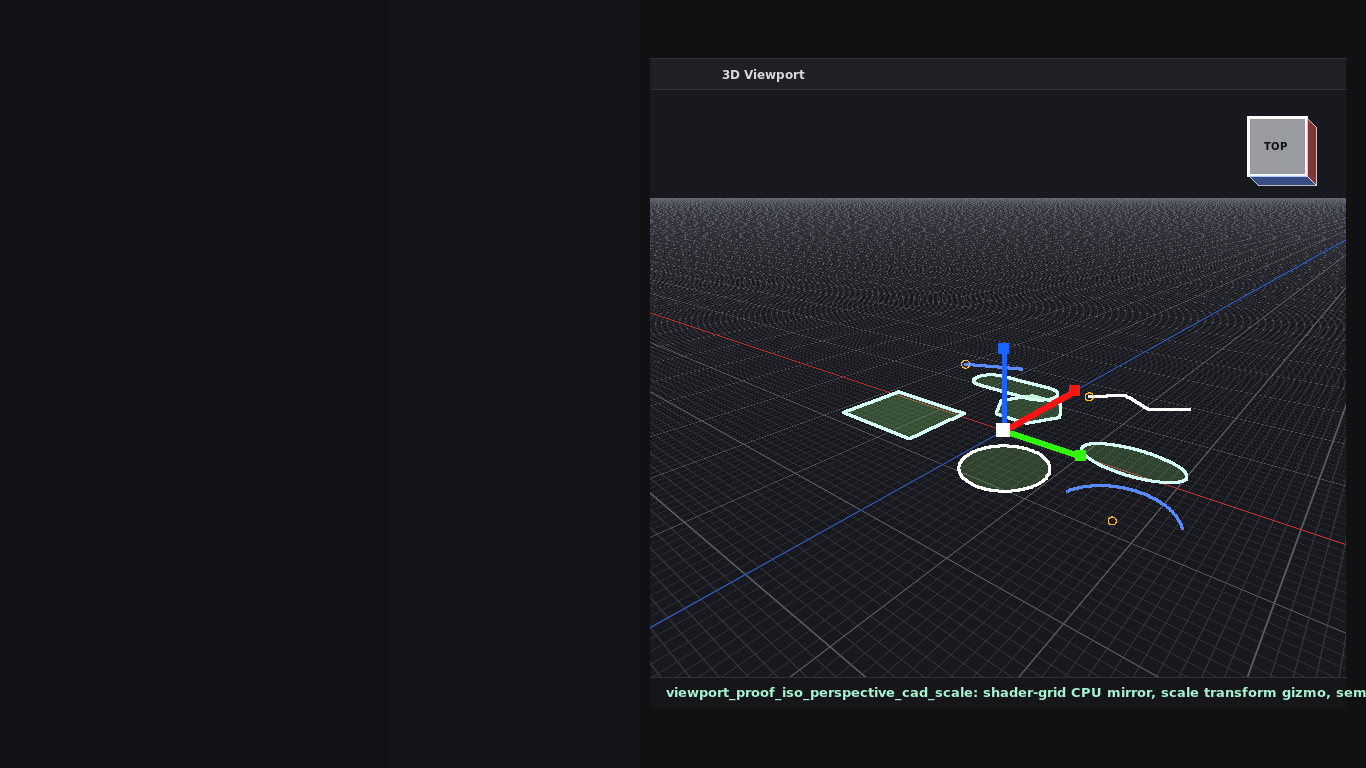
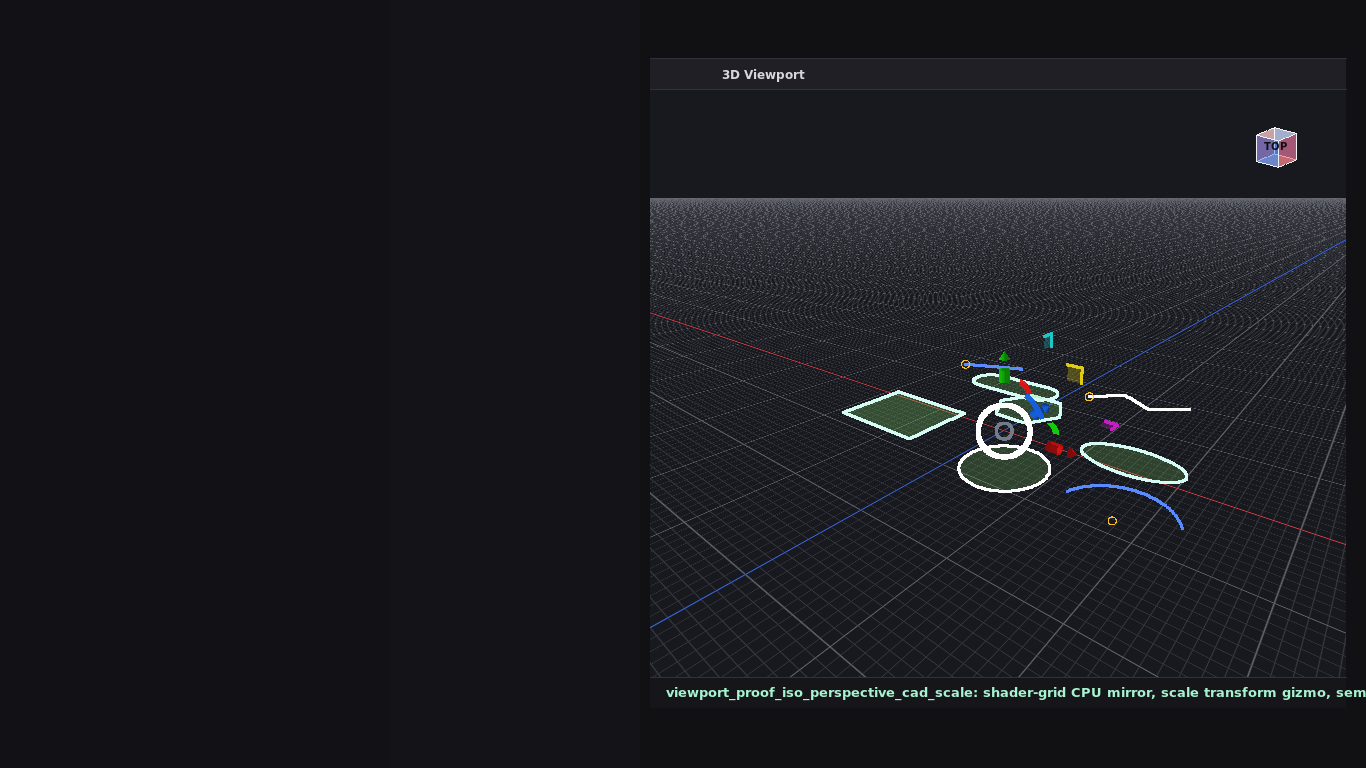
Sync viewport gizmo depth and HTML proof

Changed region(s): [[0.7072, 0.4375, 0.7994, 0.5938], [0.8917, 0.125, 0.9839, 0.25], [0.7994, 0.5312, 0.8302, 0.5625]]

diff --git a/Tools/RenderViewportPanelProof.py b/Tools/RenderViewportPanelProof.py
@@ -50,6 +50,11 @@ def mul(a: Vec3, s: float) -> Vec3:
 def dot(a: Vec3, b: Vec3) -> float:
     return a[0] * b[0] + a[1] * b[1] + a[2] * b[2]
 
+def cross(a: Vec3, b: Vec3) -> Vec3:
+    return (a[1] * b[2] - a[2] * b[1],
+            a[2] * b[0] - a[0] * b[2],
+            a[0] * b[1] - a[1] * b[0])
+
 
 def length(a: Vec3) -> float:
     return math.sqrt(dot(a, a))
@@ -286,119 +291,150 @@ def draw_cad_tools(img: Image, cam: Camera) -> None:
 
 
 
-def axis_screen_layout(cam: Camera, origin: Vec3 = (0.0, 0.0, 0.0)) -> Tuple[Point, dict[str, Point], dict[str, Point]] | None:
-    o = project(cam, origin)
-    if not o:
-        return None
-    dirs: dict[str, Point] = {}
-    tips: dict[str, Point] = {}
-    axes = {"x": (1.0, 0.0, 0.0), "y": (0.0, 1.0, 0.0), "z": (0.0, 0.0, 1.0)}
-    for k, a in axes.items():
-        sp = project(cam, add(origin, mul(a, 0.5)))
-        if not sp:
-            dirs[k] = (0.0, 0.0)
-            tips[k] = o
-            continue
-        dx, dy = sp[0] - o[0], sp[1] - o[1]
-        ln = math.hypot(dx, dy)
-        if ln < 1e-4:
-            dirs[k] = (0.0, 0.0)
-            tips[k] = o
-        else:
-            dirs[k] = (dx / ln, dy / ln)
-            tips[k] = (o[0] + dirs[k][0] * 82.0, o[1] + dirs[k][1] * 82.0)
-    return o, dirs, tips
+
+def _shade(col: Color, f: float) -> Color:
+    return (int(clamp(col[0] * f, 0, 255)), int(clamp(col[1] * f, 0, 255)), int(clamp(col[2] * f, 0, 255)))
 
 
-def draw_arrow(img: Image, o: Point, tip: Point, d: Point, col: Color) -> None:
-    img.line(o, tip, col, 1.0, 4)
-    if abs(d[0]) + abs(d[1]) < 1e-6:
-        return
-    back = (tip[0] - d[0] * 18.0, tip[1] - d[1] * 18.0)
-    perp = (-d[1], d[0])
-    tri = [tip, (back[0] + perp[0] * 6.0, back[1] + perp[1] * 6.0), (back[0] - perp[0] * 6.0, back[1] - perp[1] * 6.0)]
-    img.polygon(tri, col, 1.0)
+def _project_poly(img: Image, cam: Camera, pts: list[Vec3], col: Color, alpha: float = 1.0) -> None:
+    pp = [project(cam, p) for p in pts]
+    if all(pp):
+        img.polygon([q for q in pp if q], col, alpha)
 
 
-def draw_plane_handle(img: Image, o: Point, dirs: dict[str, Point], a: str, b: str, col: Color) -> None:
-    off, sz = 28.0, 22.0
-    da, db = dirs[a], dirs[b]
-    if math.hypot(*da) < 1e-4 or math.hypot(*db) < 1e-4:
-        return
-    def corner(ka: float, kb: float) -> Point:
-        return (o[0] + da[0] * ka + db[0] * kb, o[1] + da[1] * ka + db[1] * kb)
-    pts = [corner(off, off), corner(off + sz, off), corner(off + sz, off + sz), corner(off, off + sz)]
-    img.polygon(pts, col, 0.45)
-    img.polyline(pts, col, 0.95, 1, True)
+def _project_line(img: Image, cam: Camera, pts: list[Vec3], col: Color, alpha: float = 1.0, width: int = 2) -> None:
+    pp = [project(cam, p) for p in pts]
+    if all(pp):
+        img.polyline([q for q in pp if q], col, alpha, width)
 
 
-def draw_ring(img: Image, o: Point, dirs: dict[str, Point], axis: str, col: Color) -> None:
-    others = [k for k in ("x", "y", "z") if k != axis]
-    da, db = dirs[others[0]], dirs[others[1]]
-    if math.hypot(*da) < 1e-4 or math.hypot(*db) < 1e-4:
-        img.circle(o[0], o[1], 96.0, col, 0.85, False, 3)
-        return
-    pts = []
-    for i in range(145):
-        t = math.tau * i / 144
-        pts.append((o[0] + (da[0] * math.cos(t) + db[0] * math.sin(t)) * 96.0,
-                    o[1] + (da[1] * math.cos(t) + db[1] * math.sin(t)) * 96.0))
-    img.polyline(pts, col, 0.92, 4)
+def _basis_for_axis(axis: Vec3) -> tuple[Vec3, Vec3]:
+    ref = (0.0, 1.0, 0.0) if abs(axis[1]) < 0.8 else (1.0, 0.0, 0.0)
+    u = norm(cross(axis, ref))
+    v = norm(cross(axis, u))
+    return u, v
+
+
+def _draw_cylinder(img: Image, cam: Camera, axis: Vec3, col: Color, radius: float, centre_dist: float, height: float) -> None:
+    u, v = _basis_for_axis(axis)
+    a = centre_dist - height * 0.5
+    b = centre_dist + height * 0.5
+    for i in range(24):
+        t0, t1 = math.tau * i / 24, math.tau * (i + 1) / 24
+        r0 = add(mul(u, math.cos(t0) * radius), mul(v, math.sin(t0) * radius))
+        r1 = add(mul(u, math.cos(t1) * radius), mul(v, math.sin(t1) * radius))
+        shade = 0.62 + 0.38 * max(0.0, math.cos(t0 - 0.6))
+        _project_poly(img, cam, [add(mul(axis, a), r0), add(mul(axis, b), r0), add(mul(axis, b), r1), add(mul(axis, a), r1)], _shade(col, shade), 0.96)
+
+
+def _draw_cone(img: Image, cam: Camera, axis: Vec3, col: Color, radius: float, base_dist: float, tip_dist: float) -> None:
+    u, v = _basis_for_axis(axis)
+    tip = mul(axis, tip_dist)
+    for i in range(24):
+        t0, t1 = math.tau * i / 24, math.tau * (i + 1) / 24
+        p0 = add(mul(axis, base_dist), add(mul(u, math.cos(t0) * radius), mul(v, math.sin(t0) * radius)))
+        p1 = add(mul(axis, base_dist), add(mul(u, math.cos(t1) * radius), mul(v, math.sin(t1) * radius)))
+        shade = 0.58 + 0.42 * max(0.0, math.cos(t0 - 0.6))
+        _project_poly(img, cam, [tip, p0, p1], _shade(col, shade), 0.98)
+
+
+def _draw_arc_bar(img: Image, cam: Camera, u: Vec3, v: Vec3, radius: float, band: float, sweep: float, col: Color) -> None:
+    centre = math.pi / 4.0
+    start = centre - sweep * 0.5
+    for i in range(24):
+        a0 = start + sweep * i / 24
+        a1 = start + sweep * (i + 1) / 24
+        def P(a: float, r: float) -> Vec3:
+            return add(mul(u, math.cos(a) * r), mul(v, math.sin(a) * r))
+        _project_poly(img, cam, [P(a0, radius - band), P(a0, radius + band), P(a1, radius + band), P(a1, radius - band)], col, 0.96)
+
+
+def _draw_plane_square(img: Image, cam: Camera, axis_name: str, u: Vec3, v: Vec3, normal: Vec3, col: Color) -> None:
+    half, tip = 0.08, 0.95
+    corner = mul(add(u, v), tip - half)
+    pts = [add(corner, add(mul(u, -half), mul(v, -half))),
+           add(corner, add(mul(u, half), mul(v, -half))),
+           add(corner, add(mul(u, half), mul(v, half))),
+           add(corner, add(mul(u, -half), mul(v, half)))]
+    _project_poly(img, cam, pts, col, 0.28)
+    outer = add(corner, add(mul(u, half), mul(v, half)))
+    back_u = add(outer, mul(u, -half * 2.0))
+    back_v = add(outer, mul(v, -half * 2.0))
+    _project_line(img, cam, [back_u, outer, back_v], col, 0.95, 2)
 
 
 def draw_transform_gizmo(img: Image, cam: Camera, mode: str) -> None:
-    # Ported from References/Cad/js/gizmo.js constants: axisLen 82, cone 18,
-    # scaleBox 11, ringR 96, planeOff 28, planeSize 22, uniform 14.
-    layout = axis_screen_layout(cam, (0.0, 0.0, 0.0))
-    if not layout:
-        return
-    o, dirs, tips = layout
-    axis_col = {"x": (0x31, 0xF5, 0x0A), "y": (0x1C, 0x64, 0xFC), "z": (0xFA, 0x14, 0x14)}
-    if mode == "translate":
-        draw_plane_handle(img, o, dirs, "x", "y", (0x1B, 0xF5, 0xE6))
-        draw_plane_handle(img, o, dirs, "y", "z", (0xDF, 0x22, 0xF5))
-        draw_plane_handle(img, o, dirs, "x", "z", (0xF7, 0xDB, 0x14))
-        for k in ("x", "y", "z"):
-            draw_arrow(img, o, tips[k], dirs[k], axis_col[k])
-        img.rect(int(o[0] - 7), int(o[1] - 7), int(o[0] + 7), int(o[1] + 7), (255, 255, 255), 0.95)
-    elif mode == "rotate":
-        for k in ("x", "y", "z"):
-            draw_ring(img, o, dirs, k, axis_col[k])
-        img.rect(int(o[0] - 3), int(o[1] - 3), int(o[0] + 3), int(o[1] + 3), (255, 255, 255), 0.95)
-    elif mode == "scale":
-        for k in ("x", "y", "z"):
-            img.line(o, tips[k], axis_col[k], 0.95, 4)
-            tx, ty = tips[k]
-            img.rect(int(tx - 5.5), int(ty - 5.5), int(tx + 5.5), int(ty + 5.5), axis_col[k], 1.0)
-        img.rect(int(o[0] - 7), int(o[1] - 7), int(o[0] + 7), int(o[1] + 7), (255, 255, 255), 1.0)
+    # References/Gizmo.html, not the older 2D gizmo.js: all grabbable handles are real
+    # 3D primitives in world space: cone translate tips, short cylinder scale handles,
+    # transparent plane squares, narrow annular rotation bars, and a camera-facing white centre ring.
+    axes = {"x": ((1.0, 0.0, 0.0), (0xE0, 0x14, 0x14)),
+            "y": ((0.0, 1.0, 0.0), (0x12, 0xD4, 0x0A)),
+            "z": ((0.0, 0.0, 1.0), (0x15, 0x60, 0xE0))}
+    others = {"x": ((0.0, 1.0, 0.0), (0.0, 0.0, 1.0), (0x1F, 0xC7, 0xC7)),
+              "y": ((1.0, 0.0, 0.0), (0.0, 0.0, 1.0), (0xC8, 0x1E, 0xC8)),
+              "z": ((1.0, 0.0, 0.0), (0.0, 1.0, 0.0), (0xE0, 0xCD, 0x12))}
+    for name, (axis, col) in axes.items():
+        _draw_cone(img, cam, axis, col, 0.06, 0.95 - 0.09, 0.95)
+        _draw_cylinder(img, cam, axis, col, 0.06, 0.95 - 0.28, 0.14)
+        u, v, plane_col = others[name]
+        _draw_plane_square(img, cam, name, u, v, axis, plane_col)
+        _draw_arc_bar(img, cam, u, v, 0.95 * 0.62, 0.038, math.radians(31.0), col)
+    o = project(cam, (0.0, 0.0, 0.0))
+    if o:
+        # Torus billboard in the HTML; represented as a white ring plus dark centre and tiny target cube.
+        img.circle(o[0], o[1], 26.0, (255, 255, 255), 1.0, 4)
+        img.circle(o[0], o[1], 8.0, (115, 124, 138), 0.75, 3)
 
-def draw_blender_gizmo(img: Image, body=BODY) -> None:
+
+def _orientation_points(cam: Camera, body=BODY) -> list[tuple[Vec3, Color, bool, str, float, float, float]]:
     x0, y0, x1, _ = body
     cx, cy, r = x1 - 70, y0 + 58, 34
-    pts = [((r, 0), (252, 90, 90), True, "X"), ((-r, 0), (252, 90, 90), False, ""),
-           ((0, -r), (90, 139, 252), True, "Z"), ((0, r), (90, 139, 252), False, ""),
-           ((0, 0), (123, 214, 106), True, "Y")]
-    for (dx, dy), col, pos, lab in pts:
-        if pos and (dx or dy): img.line((cx, cy), (cx + dx, cy + dy), (255, 255, 255), 0.14, 2)
-    for (dx, dy), col, pos, lab in pts:
-        img.circle(cx + dx, cy + dy, 9 if pos else 7, col if pos else (10, 12, 16), 1, 1)
+    right, up, forward = cam.basis
+    axes = [((1,0,0), (252,90,90), True, "X"), ((-1,0,0), (252,90,90), False, ""),
+            ((0,1,0), (123,214,106), True, "Y"), ((0,-1,0), (123,214,106), False, ""),
+            ((0,0,1), (90,139,252), True, "Z"), ((0,0,-1), (90,139,252), False, "")]
+    out=[]
+    for a,col,pos,label in axes:
+        sx, sy = dot(a, right), dot(a, up)
+        depth = -dot(a, forward)  # SharedViewportCameraDepth: match HTML reference front/back ordering.
+        out.append((a, col, pos, label, cx + sx*r, cy - sy*r, depth))
+    return sorted(out, key=lambda x: x[6])
 
 
-def draw_cad_cube(img: Image, body=BODY) -> None:
+def draw_blender_gizmo(img: Image, cam: Camera, body=BODY) -> None:
     x0, y0, x1, _ = body
-    # Top orthographic cube face: label on projected face, single top-right gizmo.
-    bx, by = x1 - 98, y0 + 28
-    top = [(bx, by), (bx + 58, by), (bx + 58, by + 58), (bx, by + 58)]
-    img.polygon(top, (248, 250, 252), 0.58)
-    img.polyline(top, (255, 255, 255), 0.95, 2, True)
-    side = [(bx + 58, by), (bx + 68, by + 10), (bx + 68, by + 68), (bx + 58, by + 58)]
-    img.polygon(side, (252, 90, 90), 0.45)
-    img.polyline(side, (255, 255, 255), 0.7, 1, True)
-    front = [(bx, by + 58), (bx + 58, by + 58), (bx + 68, by + 68), (bx + 10, by + 68)]
-    img.polygon(front, (91, 140, 255), 0.45)
-    img.polyline(front, (255, 255, 255), 0.7, 1, True)
+    cx, cy = x1 - 70, y0 + 58
+    pts = _orientation_points(cam, body)
+    for _, _, pos, _, x, y, _ in pts:
+        if pos:
+            img.line((cx, cy), (x, y), (255, 255, 255), 0.14, 2)
+    for _, col, pos, _, x, y, depth in pts:
+        if pos:
+            img.circle(x, y, 9, col, 1.0 if depth > 0 else 0.75, 1)
+        else:
+            img.circle(x, y, 7, (10, 12, 16), 0.9, 1)
+            img.circle(x, y, 4, col, 0.85, 1)
 
 
+def draw_cad_cube(img: Image, cam: Camera, body=BODY) -> None:
+    x0, y0, x1, _ = body
+    cx, cy, scale = x1 - 70, y0 + 58, 28.0
+    right, up, forward = cam.basis
+    def P(p: Vec3) -> Point:
+        return (cx + dot(p, right) * scale, cy - dot(p, up) * scale)
+    faces = [((1,0,0), [(1,0,0),(1,1,0),(1,1,1),(1,0,1)], (252,90,90), "Right"),
+             ((-1,0,0), [(0,0,0),(0,0,1),(0,1,1),(0,1,0)], (252,90,90), "Left"),
+             ((0,1,0), [(0,1,0),(0,1,1),(1,1,1),(1,1,0)], (248,250,252), "Top"),
+             ((0,-1,0), [(0,0,0),(1,0,0),(1,0,1),(0,0,1)], (216,222,234), "Bottom"),
+             ((0,0,1), [(0,0,1),(1,0,1),(1,1,1),(0,1,1)], (91,140,255), "Front"),
+             ((0,0,-1), [(0,0,0),(0,1,0),(1,1,0),(1,0,0)], (91,140,255), "Back")]
+    def centre_pts(corners):
+        return tuple(sum(q[i] for q in corners)/4.0 - 0.5 for i in range(3))
+    for normal, corners, col, label in sorted(faces, key=lambda f: -dot(f[0], forward)):
+        shifted=[(p[0]-0.5,p[1]-0.5,p[2]-0.5) for p in corners]
+        pp=[P(q) for q in shifted]
+        img.polygon(pp, col, 0.54)
+        img.polyline(pp, (255,255,255), 0.78, 1, True)
 def render(name: str, cam: Camera, gizmo: str, transform: str) -> str:
     img = Image(W, H)
     # App frame gutters around the viewport panel.
@@ -410,9 +446,9 @@ def render(name: str, cam: Camera, gizmo: str, transform: str) -> str:
     draw_cad_tools(img, cam)
     draw_transform_gizmo(img, cam, transform)
     if gizmo == "cad":
-        draw_cad_cube(img)
+        draw_cad_cube(img, cam)
     else:
-        draw_blender_gizmo(img)
+        draw_blender_gizmo(img, cam)
     ppm = os.path.join(OUT, f"{name}.ppm")
     png = os.path.join(OUT, f"{name}.png")
     img.save_ppm(ppm)

diff --git a/Engine/Application/Api/SharedViewportHostBridge.h b/Engine/Application/Api/SharedViewportHostBridge.h
@@ -140,6 +140,16 @@ inline void SharedViewportOrientationPreset(SharedViewportOrientation Orientatio
     }
 }
 
+inline double SharedViewportCameraDepth(const SharedViewportBasis& Basis, const double Axis[3])
+{
+    // The HTML reference (References/Cad/js/viewport3d.js::vp3Basis/vp3Gizmo) uses
+    // camera-forward = target - eye for depth ordering. Editor/Paint yaw-pitch stores
+    // the eye ray in Basis.Forward, while Parametric passes an already camera-forward
+    // frame, so the public gizmo projection always normalizes depth through this helper
+    // instead of letting each host guess front/back differently.
+    return -(Axis[0] * Basis.Forward[0] + Axis[1] * Basis.Forward[1] + Axis[2] * Basis.Forward[2]);
+}
+
 inline void SharedViewportOrientationPoint(const SharedViewportBasis& Basis,
                                            const PlaneExtent& Extent,
                                            const double Axis[3],
@@ -152,7 +162,7 @@ inline void SharedViewportOrientationPoint(const SharedViewportBasis& Basis,
     const float CentreY = Extent.MinimumY + 58.0f;
     const double SX = Axis[0] * Basis.Right[0] + Axis[1] * Basis.Right[1] + Axis[2] * Basis.Right[2];
     const double SY = Axis[0] * Basis.Up[0] + Axis[1] * Basis.Up[1] + Axis[2] * Basis.Up[2];
-    Depth = Axis[0] * Basis.Forward[0] + Axis[1] * Basis.Forward[1] + Axis[2] * Basis.Forward[2];
+    Depth = SharedViewportCameraDepth(Basis, Axis);
     X = CentreX + static_cast<float>(SX) * Radius;
     Y = CentreY - static_cast<float>(SY) * Radius;
 }
@@ -241,7 +251,7 @@ inline void SharedViewportProjectAxisPoint(const SharedViewportBasis& Basis,
 {
     const double SX = Axis[0] * Basis.Right[0] + Axis[1] * Basis.Right[1] + Axis[2] * Basis.Right[2];
     const double SY = Axis[0] * Basis.Up[0] + Axis[1] * Basis.Up[1] + Axis[2] * Basis.Up[2];
-    Depth = Axis[0] * Basis.Forward[0] + Axis[1] * Basis.Forward[1] + Axis[2] * Basis.Forward[2];
+    Depth = SharedViewportCameraDepth(Basis, Axis);
     X = static_cast<float>(SX) * Scale;
     Y = -static_cast<float>(SY) * Scale;
 }
@@ -335,7 +345,7 @@ inline void RecordSharedViewportCadCube(RecordingSurface& Surface,
         Point(D0, D1, D2, Face.Corners[6], Face.Corners[7]);
         Face.CentreX = (Face.Corners[0] + Face.Corners[2] + Face.Corners[4] + Face.Corners[6]) * 0.25f;
         Face.CentreY = (Face.Corners[1] + Face.Corners[3] + Face.Corners[5] + Face.Corners[7]) * 0.25f;
-        Face.Depth = Face.Normal[0] * Basis.Forward[0] + Face.Normal[1] * Basis.Forward[1] + Face.Normal[2] * Basis.Forward[2];
+        Face.Depth = SharedViewportCameraDepth(Basis, Face.Normal);
     };
 
     FaceRecord Faces[6] =

diff --git a/Tools/ValidateHostBuildBudgets.py b/Tools/ValidateHostBuildBudgets.py
@@ -70,6 +70,8 @@ def main() -> int:
             "shared viewport bridge must own the one-at-a-time gizmo dispatch")
     require("Extent.MinimumX + 52.0f" not in shared_viewport and "Extent.MaximumX - 70.0f" in shared_viewport,
             "both Blender and CAD viewport gizmos must be anchored at the top-right of the viewport")
+    require("SharedViewportCameraDepth" in shared_viewport,
+            "shared viewport gizmos must use the HTML-reference camera-forward depth ordering")
 
     tools = read("Engine/SlateUI/Interface/ParametricTools/Source/ParametricToolsPanel.cpp")
     require("static_cast<void>(Elapsed);" in tools, "ParametricToolsPanel must mark Elapsed as intentionally unused")
